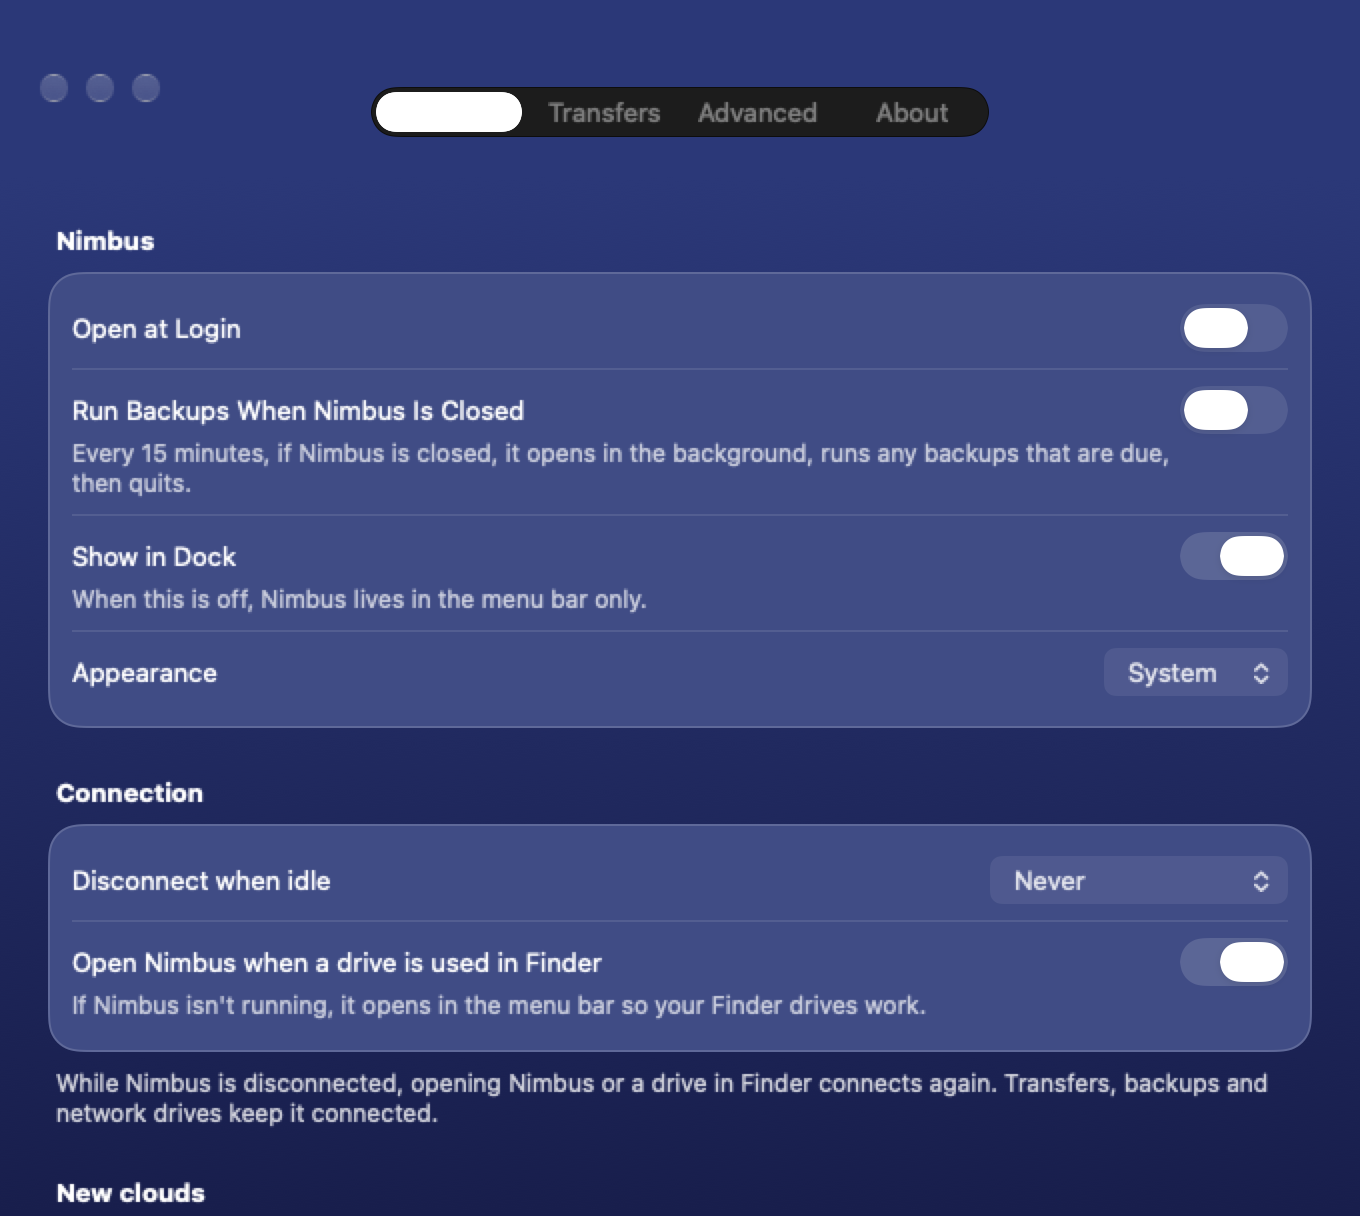
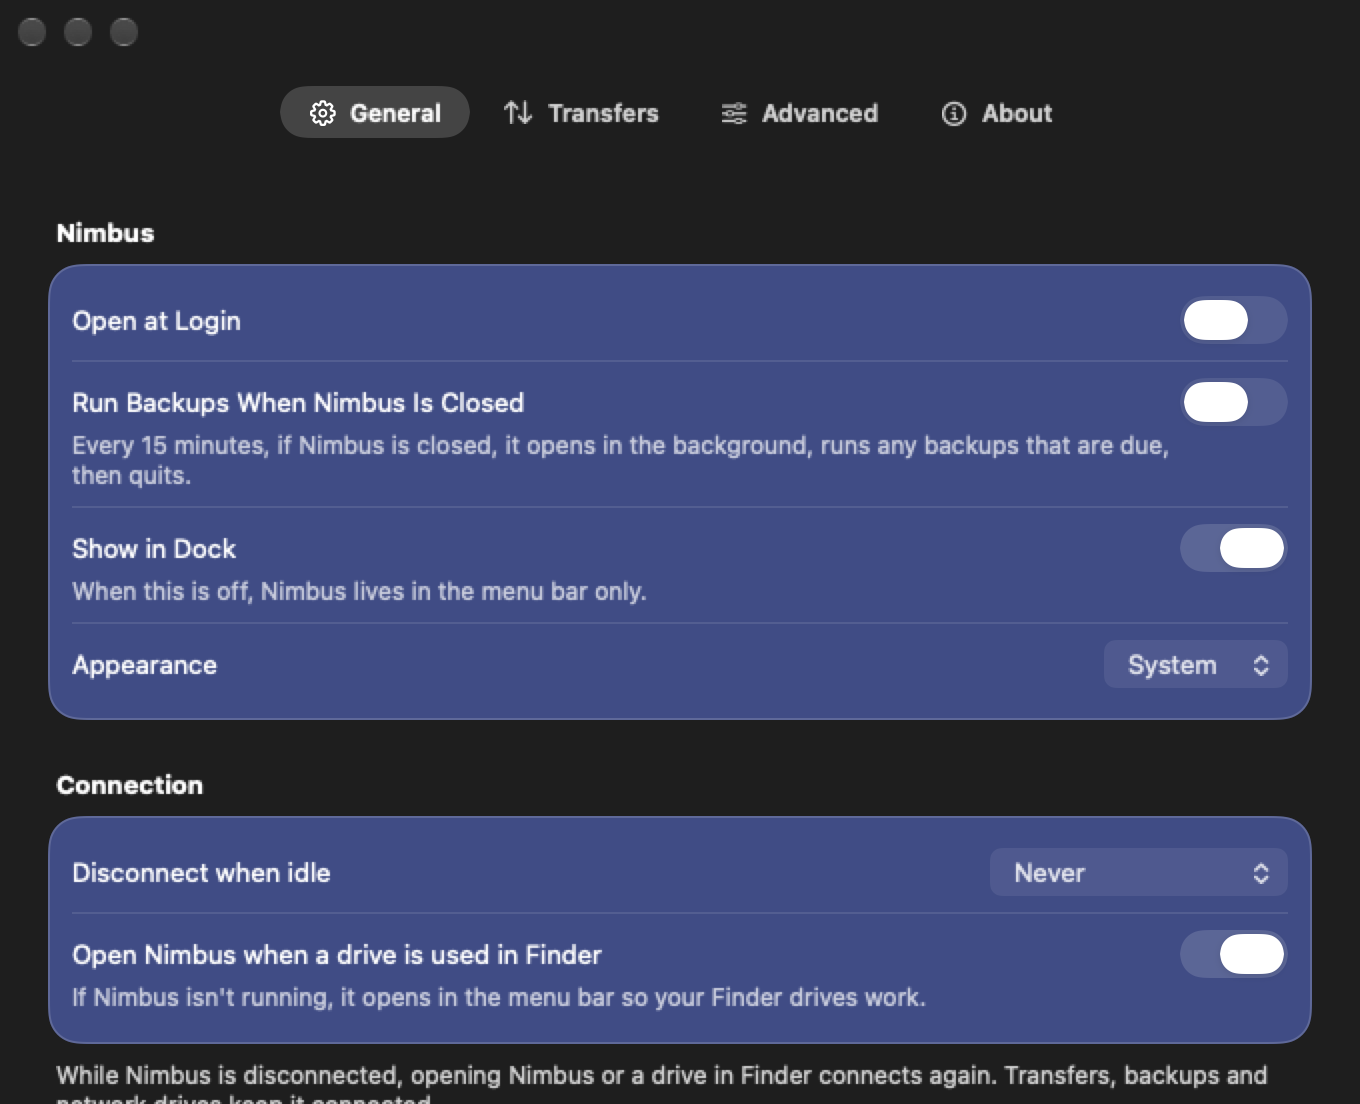
feat(settings): the app's own tab bar in the Settings window
The system Settings toolbar drew the selected tab's icon and label in
the accent blue on a blue highlight and took no tint. Settings now uses
the same glass segmented control as a cloud's page, and its background
runs behind the title bar instead of leaving a grey strip.

diff --git a/Nimbus/Nimbus/Views/Settings/SettingsView.swift b/Nimbus/Nimbus/Views/Settings/SettingsView.swift
@@ -40,30 +40,29 @@ struct SettingsView: View {
         self.storageModel = storageModel
     }
 
+    /// The tabs on offer: Storage only when there is a model for it.
+    var tabs: [SettingsTab] {
+        SettingsTab.allCases.filter { $0 != .storage || storageModel != nil }
+    }
+
     var body: some View {
-        TabView(selection: $selectedTab) {
-            GeneralSettingsView()
-                .tag(SettingsTab.general)
-                .tabItem { Label(SettingsTab.general.title, systemImage: SettingsTab.general.systemImage) }
+        VStack(spacing: 0) {
+            // The app's own segmented control, not the system's Settings
+            // toolbar: that one draws the selected tab in the accent blue
+            // on a blue highlight, and takes no tint.
+            GlassSegmented(
+                options: tabs.map { .init(value: $0, title: $0.title, systemImage: $0.systemImage) },
+                selection: $selectedTab
+            )
+            .accessibilityElement(children: .contain)
+            .accessibilityLabel("Settings sections")
+            .padding(.top, DesignSystem.Spacing.s)
+            .padding(.bottom, DesignSystem.Spacing.m)
 
-            TransferSettingsView()
-                .tag(SettingsTab.transfers)
-                .tabItem { Label(SettingsTab.transfers.title, systemImage: SettingsTab.transfers.systemImage) }
-
-            if let storageModel {
-                StorageSettingsView(model: storageModel)
-                    .tag(SettingsTab.storage)
-                    .tabItem { Label(SettingsTab.storage.title, systemImage: SettingsTab.storage.systemImage) }
-            }
-
-            AdvancedSettingsView(storageModel: generalModel)
-                .tag(SettingsTab.advanced)
-                .tabItem { Label(SettingsTab.advanced.title, systemImage: SettingsTab.advanced.systemImage) }
-
-            AboutSettingsView()
-                .tag(SettingsTab.about)
-                .tabItem { Label(SettingsTab.about.title, systemImage: SettingsTab.about.systemImage) }
+            pane
+                .frame(maxWidth: .infinity, maxHeight: .infinity)
         }
+        .navigationTitle("Settings")
         .accessibilityIdentifier("settings-shell")
         .frame(width: 680, height: 520)
         // Buttons and menus draw their label in the tint. The app's tint is
@@ -73,8 +72,26 @@ struct SettingsView: View {
         // The same opaque surface as a sheet, so form groups match and
         // nothing here depends on what is behind the window.
         .environment(\.isOnStratosphereSheet, true)
-        .background(LinearGradient(colors: [palette.sheetTop.color, palette.sheetBottom.color],
-                                   startPoint: .top, endPoint: .bottom))
+        // Behind the title bar too, so it isn't a grey strip above the blue.
+        .containerBackground(for: .window) {
+            LinearGradient(colors: [palette.sheetTop.color, palette.sheetBottom.color],
+                           startPoint: .top, endPoint: .bottom)
+        }
+        .toolbarBackground(.hidden, for: .windowToolbar)
+    }
+}
+
+extension SettingsView {
+    @ViewBuilder
+    fileprivate var pane: some View {
+        switch selectedTab {
+        case .general: GeneralSettingsView()
+        case .transfers: TransferSettingsView()
+        case .storage:
+            if let storageModel { StorageSettingsView(model: storageModel) }
+        case .advanced: AdvancedSettingsView(storageModel: generalModel)
+        case .about: AboutSettingsView()
+        }
     }
 }
 

diff --git a/Nimbus/NimbusTests/SettingsViewTests.swift b/Nimbus/NimbusTests/SettingsViewTests.swift
@@ -10,6 +10,10 @@ struct SettingsViewTests {
         #expect(SettingsTab.allCases == [.general, .transfers, .storage, .advanced, .about])
     }
 
+    @Test func storageTabIsOfferedOnlyWithAStorageModel() {
+        #expect(SettingsView().tabs == [.general, .transfers, .advanced, .about])
+    }
+
     @Test func sceneRootAppliesLightAppearanceFromSettings() {
         let settings = settings()
         settings.appearance = .light
